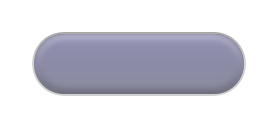
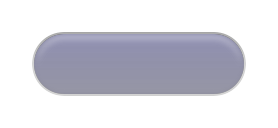
STash

Changed region(s): [[0.1439, 0.625, 0.8633, 0.75]]

diff --git a/src/genplugin/lscontrols.cpp b/src/genplugin/lscontrols.cpp
@@ -89,7 +89,7 @@ void LsControls::renderOutlineHighlight()
         painter.fillPath( m_outlinePath, QBrush( QColor( 0, 0, 0, 255 ) ) );
     }
 
-    m_imgOutlineHighlight = calcVertDerivative( m_imgOutlineHighlight, false, QColor( 255, 255, 255, 64) );
+    m_imgOutlineHighlight = calcVertDerivative( m_imgOutlineHighlight, false, QColor( 255, 255, 255, 50) );
     m_imgOutlineHighlight = blurImage( m_imgOutlineHighlight, 4 );
 }
 
@@ -138,7 +138,7 @@ void LsControls::renderControl()
 
     QLinearGradient gradient(rect.topLeft(), rect.bottomLeft());
     gradient.setColorAt(0, QColor(160,160,220,192));
-    gradient.setColorAt(1, QColor(120,120,200,128));
+    gradient.setColorAt(1, QColor(160,160,220,128));
 
     painter.setPen( Qt::NoPen );
     painter.fillPath( m_controlPath, gradient);
@@ -234,7 +234,7 @@ void LsControls::flattenImage()
     }
 
     // Merge control shadow
-    if (1) {
+    if (0) {
         QPainter painter( &m_imgFinal );
         painter.setRenderHints( QPainter::Antialiasing | QPainter::HighQualityAntialiasing );
         painter.setClipPath( m_controlPath );
